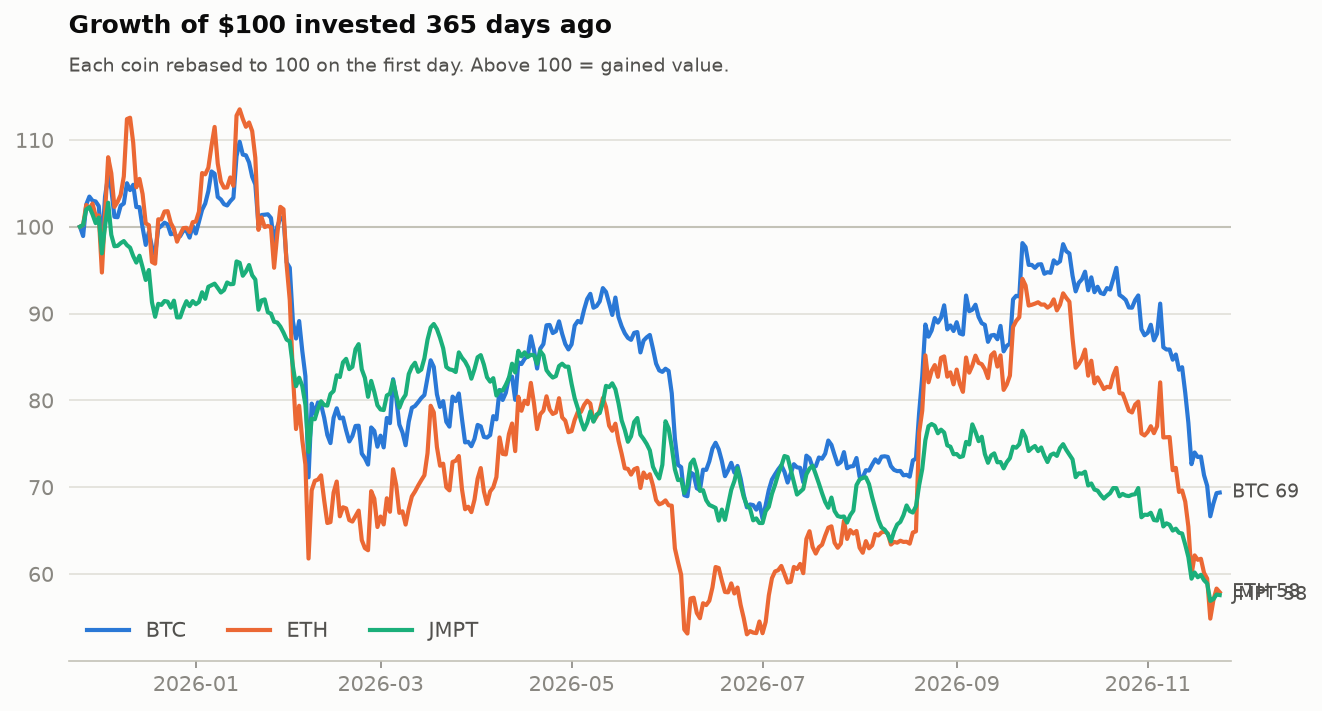
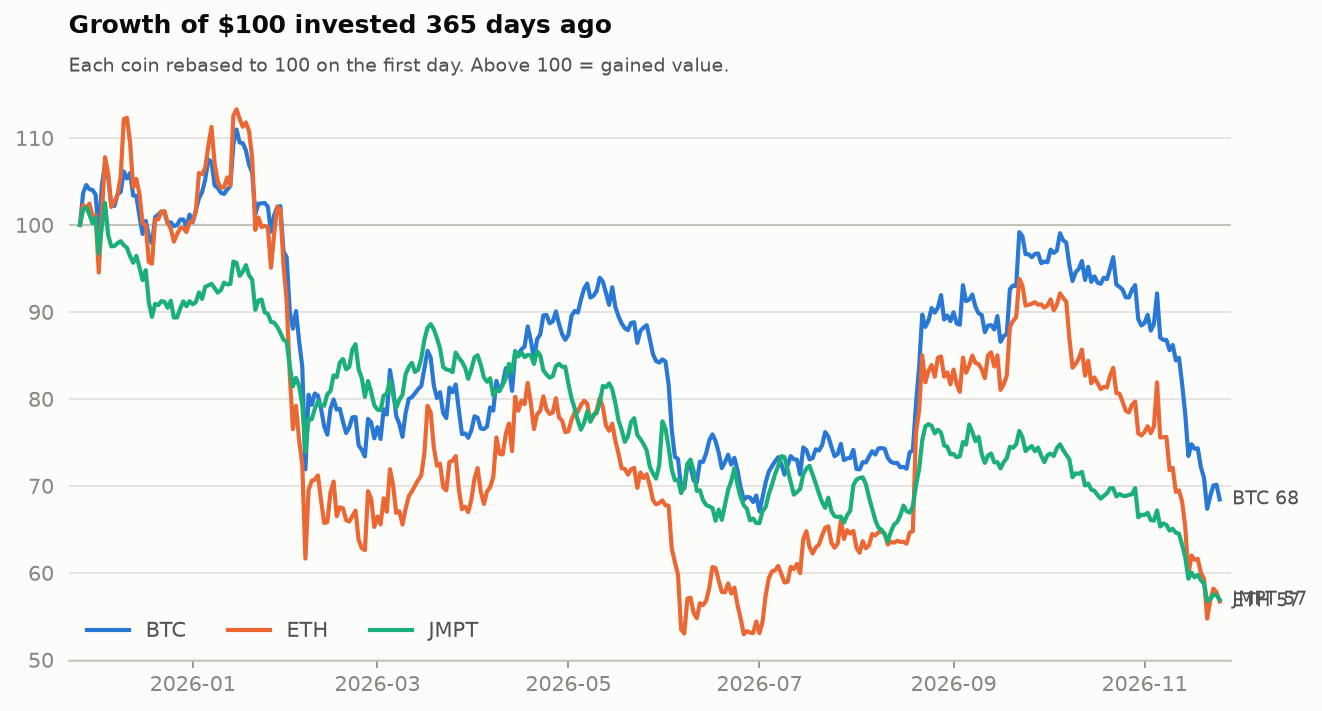
data: market update 2026-11-25

diff --git a/README.md b/README.md
@@ -9,13 +9,13 @@ The project compares two of the largest cryptocurrencies with a small-cap token:
 ## Latest stats
 
 <!-- STATS:START -->
-_Snapshot as of **2026-11-24 00:00 UTC**. Updated automatically every day._
+_Snapshot as of **2026-11-25 00:00 UTC**. Updated automatically every day._
 
 | Coin | Price | 1 day | 7 days | 30 days | 1 year | Volatility (30d) | Market cap |
 |:--|--:|--:|--:|--:|--:|--:|--:|
-| **BTC** Bitcoin | $61,228 | ▲ +0.1% | ▼ -5.6% | ▼ -24.2% | ▼ -29.4% | 47% | $1.23T |
-| **ETH** Ethereum | $1,709 | ▼ -0.7% | ▼ -6.1% | ▼ -27.5% | ▼ -38.9% | 66% | $208.96B |
-| **JMPT** JumpToken | $0.4461 | ▼ -0.1% | ▼ -3.4% | ▼ -16.6% | ▼ -41.7% | 30% | $6.58M |
+| **BTC** Bitcoin | $59,759 | ▼ -2.4% | ▼ -7.9% | ▼ -25.3% | ▼ -32.3% | 48% | $1.20T |
+| **ETH** Ethereum | $1,678 | ▼ -1.8% | ▼ -8.0% | ▼ -27.9% | ▼ -43.2% | 66% | $205.13B |
+| **JMPT** JumpToken | $0.4419 | ▼ -0.9% | ▼ -4.8% | ▼ -17.3% | ▼ -43.0% | 30% | $6.52M |
 <!-- STATS:END -->
 
 ## Charts
